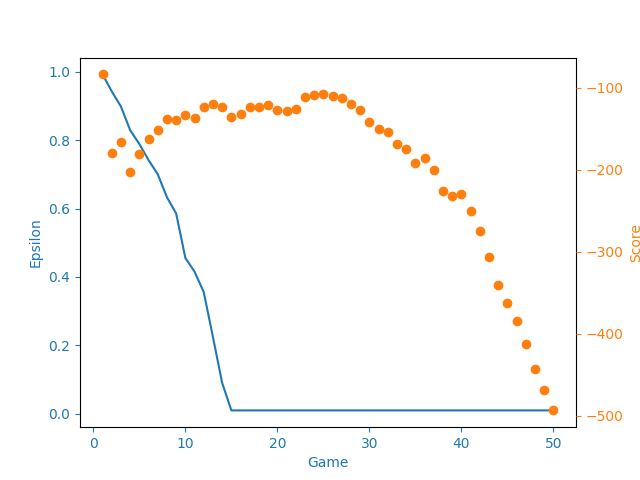
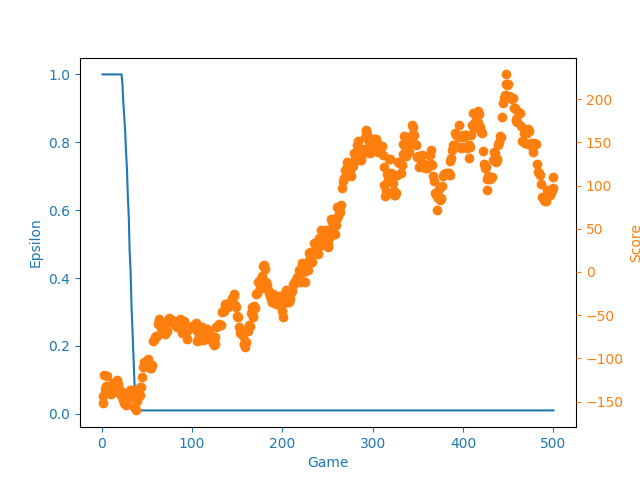
Added target network

diff --git a/different.py b/different.py
@@ -2,28 +2,23 @@ import torch as T
 import torch.nn as nn
 import torch.nn.functional as F
 import torch.optim as optim
-
 import numpy as np
 
-class DeepQ(nn.Module):
-
-    def __init__(self, n_actions, lr, input_dims, fc1_dims, fc2_dims):
-        super().__init__()
-        self.lr = lr
+class DeepQNetwork(nn.Module):
+    def __init__(self, lr, input_dims, fc1_dims, fc2_dims,
+            n_actions):
+        super(DeepQNetwork, self).__init__()
         self.input_dims = input_dims
         self.fc1_dims = fc1_dims
         self.fc2_dims = fc2_dims
         self.n_actions = n_actions
-
         self.fc1 = nn.Linear(*self.input_dims, self.fc1_dims)
         self.fc2 = nn.Linear(self.fc1_dims, self.fc2_dims)
         self.fc3 = nn.Linear(self.fc2_dims, self.n_actions)
 
         self.optimizer = optim.Adam(self.parameters(), lr=lr)
         self.loss = nn.MSELoss()
-
         self.device = T.device('cuda:0' if T.cuda.is_available() else 'cpu')
-        print(self.device)
         self.to(self.device)
 
     def forward(self, state):
@@ -34,82 +29,83 @@ class DeepQ(nn.Module):
         return actions
 
 class Agent():
-
     def __init__(self, gamma, epsilon, lr, input_dims, batch_size, n_actions,
-                 max_mem_size=100000, eps_end=0.05, eps_dec=5e-4):
-
+            max_mem_size=100000, eps_end=0.05, eps_dec=5e-4):
         self.gamma = gamma
         self.epsilon = epsilon
-        self.lr = lr
-        self.input_dims = input_dims
-        self.batch_size = batch_size
-        self.action_space = [i for i in range(n_actions)]
-        self.mem_size = max_mem_size
-        self.mem_ctr = 0
         self.eps_min = eps_end
         self.eps_dec = eps_dec
+        self.lr = lr
+        self.action_space = [i for i in range(n_actions)]
+        self.mem_size = max_mem_size
+        self.batch_size = batch_size
+        self.mem_cntr = 0
+        self.iter_cntr = 0
+        self.replace_target = 100
 
-        self.Q_eval = DeepQ(n_actions, lr, input_dims, fc1_dims=64, fc2_dims=64)
-        self.Q_next = DeepQ(n_actions, lr, input_dims, fc1_dims=64, fc2_dims=64)
-        self.Q_next.load_state_dict(self.Q_eval.state_dict())
+        self.Q_eval = DeepQNetwork(lr, n_actions=n_actions, input_dims=input_dims,
+                                    fc1_dims=256, fc2_dims=256)
+        self.Q_next = DeepQNetwork(lr, n_actions=n_actions, input_dims=input_dims,
+                                    fc1_dims=64, fc2_dims=64)
 
-        self.state_mem = np.zeros((self.mem_size, *input_dims), dtype=np.float32)
+        self.state_memory = np.zeros((self.mem_size, *input_dims), dtype=np.float32)
         self.new_state_memory = np.zeros((self.mem_size, *input_dims), dtype=np.float32)
         self.action_memory = np.zeros(self.mem_size, dtype=np.int32)
         self.reward_memory = np.zeros(self.mem_size, dtype=np.float32)
         self.terminal_memory = np.zeros(self.mem_size, dtype=np.bool)
 
-    def store_transition(self, state, action, reward, state_, done):
-        index = self.mem_ctr % self.mem_size
-        self.state_mem[index] = state
+    def store_transition(self, state, action, reward, state_, terminal):
+        index = self.mem_cntr % self.mem_size
+        self.state_memory[index] = state
         self.new_state_memory[index] = state_
         self.reward_memory[index] = reward
         self.action_memory[index] = action
-        self.terminal_memory[index] = done
+        self.terminal_memory[index] = terminal
 
-        self.mem_ctr +=1
+        self.mem_cntr += 1
 
     def choose_action(self, observation):
         if np.random.random() > self.epsilon:
-            state  = T.tensor([observation]).to(self.Q_eval.device)
-            action = self.Q_eval.forward(state)
-            action = T.argmax(action).item()
+            state = T.tensor([observation]).to(self.Q_eval.device)
+            actions = self.Q_eval.forward(state)
+            action = T.argmax(actions).item()
         else:
             action = np.random.choice(self.action_space)
 
         return action
 
-    def learn(self, update_network=False):
-
-        if self.mem_ctr < self.batch_size:
+    def learn(self):
+        if self.mem_cntr < self.batch_size:
             return
 
         self.Q_eval.optimizer.zero_grad()
 
-        max_mem = min(self.mem_size, self.mem_ctr)
+        max_mem = min(self.mem_cntr, self.mem_size)
+
         batch = np.random.choice(max_mem, self.batch_size, replace=False)
 
         batch_index = np.arange(self.batch_size, dtype=np.int32)
 
-        state_batch     = T.tensor(self.state_mem[batch]).to(self.Q_eval.device)
-        reward_batch    = T.tensor(self.reward_memory[batch]).to(self.Q_eval.device)
-        terminal_batch  = T.tensor(self.terminal_memory[batch]).to(self.Q_eval.device)
-        new_state_bacth = T.tensor(self.new_state_memory[batch]).to(self.Q_eval.device)
-
+        state_batch = T.tensor(self.state_memory[batch]).to(self.Q_eval.device)
+        new_state_batch = T.tensor(self.new_state_memory[batch]).to(self.Q_eval.device)
         action_batch = self.action_memory[batch]
+        reward_batch = T.tensor(self.reward_memory[batch]).to(self.Q_eval.device)
+        terminal_batch = T.tensor(self.terminal_memory[batch]).to(self.Q_eval.device)
 
         q_eval = self.Q_eval.forward(state_batch)[batch_index, action_batch]
-        q_next = self.Q_eval.forward(new_state_bacth)
-        q_next[terminal_batch] = 0
+        q_next = self.Q_eval.forward(new_state_batch)
+        q_next[terminal_batch] = 0.0
 
-        q_target = reward_batch + self.gamma * T.max(q_next, dim=1)[0]
+        q_target = reward_batch + self.gamma*T.max(q_next,dim=1)[0]
 
         loss = self.Q_eval.loss(q_target, q_eval).to(self.Q_eval.device)
         loss.backward()
         self.Q_eval.optimizer.step()
 
-        if update_network:
-            self.Q_next.load_state_dict(self.Q_eval.state_dict())
-
+        self.iter_cntr += 1
         self.epsilon = self.epsilon - self.eps_dec if self.epsilon > self.eps_min \
-            else self.eps_min
+                       else self.eps_min
+
+        #if self.iter_cntr % self.replace_target == 0:
+        #   self.Q_next.load_state_dict(self.Q_eval.state_dict())
+

diff --git a/moonlanding.py b/moonlanding.py
@@ -3,11 +3,11 @@ import numpy as np
 from agent import Agent
 from utils import plotLearning
 
-def main(n_games=50):
+def main(n_games=500):
 
     env = gym.make('LunarLander-v2')
-    agent = Agent(gamma=0.99, epsilon=1, batch_size=64, n_actions=4,
-                  eps_end=0.01, input_dims=[8], lr=0.001)
+    agent = Agent(gamma=0.99, epsilon=1, batch_size=4096, n_actions=4,
+                  eps_end=0.01, input_dims=[8], lr=0.003)
 
     scores, eps_history = [], []
 
@@ -15,17 +15,20 @@ def main(n_games=50):
         score = 0
         done = False
         observation = env.reset()
-        if i % 5 == 0:
-            env.render()
+        render = True if i % 25 == 0 else False
 
         while not done:
+            if render:
+                env.render()
             action = agent.choose_action(observation)
-            observation_, reward, done, info = env.step(action)
+            observation_, reward, done, _ = env.step(action)
             score += reward
             agent.store_transition(observation, action, reward, observation_, done)
-
             agent.learn()
             observation = observation_
+
+        agent.learn(update_network=render)
+        env.close()
 
         scores.append(score)
         eps_history.append(agent.epsilon)
@@ -35,8 +38,7 @@ def main(n_games=50):
         print(f'episode {i}, score {round(score, 2)} average score {round(avg_score, 2)}')
 
     x = [i+1 for i in range(n_games)]
-    filename = 'lunar_lander_2020,png'
-    plotLearning(x, scores, eps_history, filename)
+    plotLearning(x, scores, eps_history, filename='lunar_lander_2020,png')
 
 if __name__ == "__main__":
 
